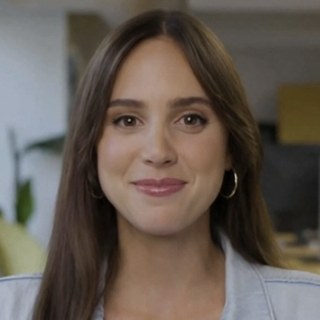
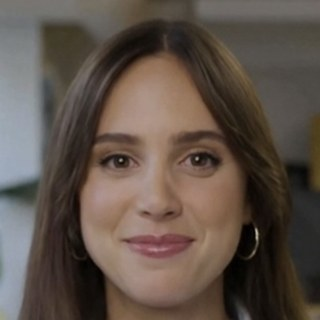
Jane headshot: tighter crop on face
Claude-Session: https://claude.ai/code/session_01L73vSRkAfx6m8Es3zgykHQ

diff --git a/src/Main.dc.html b/src/Main.dc.html
@@ -221,7 +221,7 @@ a{color:#3873AF}a:hover{color:#2A4252}
 <div style="flex: 1 1 380px; min-width: 0">
 <img src="/_blob/5d4b0e33104ad2650d016289542c8ea1" alt="The Growth Coach screen: Jane, the AI Growth Coach, answering questions about a high-margin sales opportunity at a pharmacy and recommending actions for the store manager" style="display: block; width: 100%; height: auto; border-radius: 12px; border: 1px solid #E1E6EB; box-shadow: 0 24px 50px -30px rgba(42,66,82,.45)">
 <div style="margin: 20px 0 0; display: flex; align-items: center; gap: 16px">
-<img src="/_blob/7d51751edb8a117d540a1ab8c14ca603" alt="Jane, your AI Growth Coach" style="flex: none; width: 72px; height: 72px; border-radius: 50%; object-fit: cover; border: 3px solid #FFB042">
+<img src="/_blob/0beb9ac97a75c7c36654ae2399419b45" alt="Jane, your AI Growth Coach" style="flex: none; width: 72px; height: 72px; border-radius: 50%; object-fit: cover; border: 3px solid #FFB042">
 <p style="margin: 0; font-size: 17px; font-weight: 700">Ask Jane, your AI Growth Coach, anything about your stores and get answers in seconds.</p>
 </div>
 </div>

diff --git a/tools/render.js b/tools/render.js
@@ -47,7 +47,7 @@ const blobs = {
   'a43647dbc8d12d0627de166138198808': 'rrg-books.jpg',
   '2f3118ce031bdcd7ba8ef5ee2cf1d96b': 'growth-flywheel-v3.png',
   '5d4b0e33104ad2650d016289542c8ea1': 'coach-screen.jpg',
-  '7d51751edb8a117d540a1ab8c14ca603': 'jane-headshot.jpg',
+  '0beb9ac97a75c7c36654ae2399419b45': 'jane-headshot.jpg',
 };
 
 const esc = s => String(s).replace(/&/g, '&amp;').replace(/</g, '&lt;').replace(/>/g, '&gt;').replace(/"/g, '&quot;');
